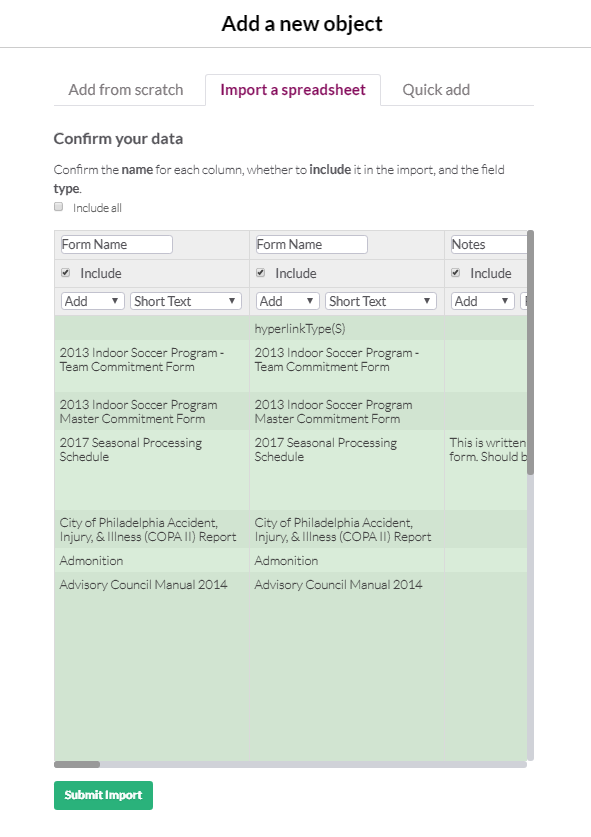
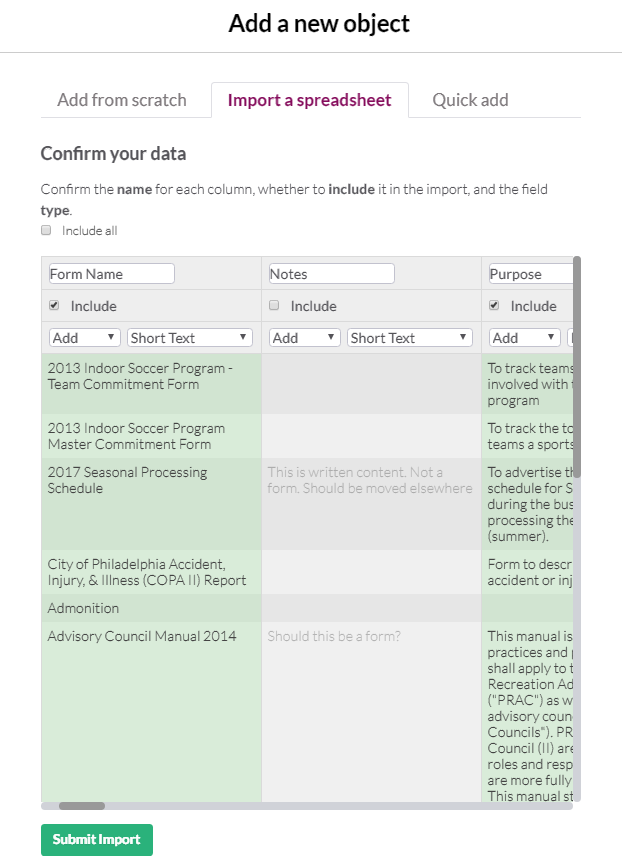
Updated 45's table instructions.
Forms database on knack will only include 7 columns.

diff --git a/changes/45.md b/changes/45.md
@@ -11,13 +11,11 @@
    ![](images/45/03.PNG)
 
 4. Set data as follows, add spaces where needed:
-- Short Text: Form Link, Form Name, Form ID, Revision Number, Grouping, Relative Link
-- Paragraph Text: Notes, Purpose, Status
-- Boolean: ExternalFacing?, Online Submission?, Online Availability
-- Multiple Choice: Source, Category/Division, Type, Scan/PDF, Job Association, ROT, Source
+- Short Text: Form Name, Records Department Form ID, Records Department Revision Date
+- Paragraph Text: Purpose
+- Multiple Choice: Work Unit
 - Number: Pages
 - Link-URL: Download Link
-
   ![](images/45/04.PNG)
 
 5. Add Link in Staff View.
@@ -29,7 +27,7 @@
 7. Select an object.
    ![](images/45/22.PNG)
 
-8. Choose ""
+8. Choose "FormDataSpreadsheet - Forms"
    ![](images/45/23.PNG)
 
 9. Only check a table to display FormDataSpreadsheet - Form. Click Continue, then Name the file Forms Library.
@@ -59,8 +57,11 @@
 17. Edit the table by clicking the settings icon.
    ![](images/45/21.PNG)
 
-18. Add the Columns in the order: Form Name, Purpose, Download Link
-   ![](images/45/25.PNG)
+18. Add the Columns in the order: Form Name, Download Link, Purpose, Records Deparment Form ID, Records Department Revision Date, Responsible Division, Document Pages.
+   ![](images/45/27.PNG)
 
-19. Edit Header to "Forms Library" and caption to "Use the search or filter functions to easily find the form you are looking for.  Click download link to download the file.  Contact Andy if you have a form to add to the library or need to request one that is missing from the forms library." Click Save Changes.
+19. Edit the Download Link by clicking the settings icon and changing the settings as seen below. make sure the Link Text says "Download".
    ![](images/45/26.PNG)
+
+20. Edit the table in the order of the following: Form Name, Purpose, Download Link, Document Pages, Work Unit, Records Department Form ID, Records Department Revision Date. Edit Header to "Forms Library" and caption to "Use the search or filter functions to easily find the form you are looking for.  Click download link to download the file.  Contact Andy if you have a form to add to the library or need to request one that is missing from the forms library." Click Save Changes.
+   ![](images/45/28.PNG)
